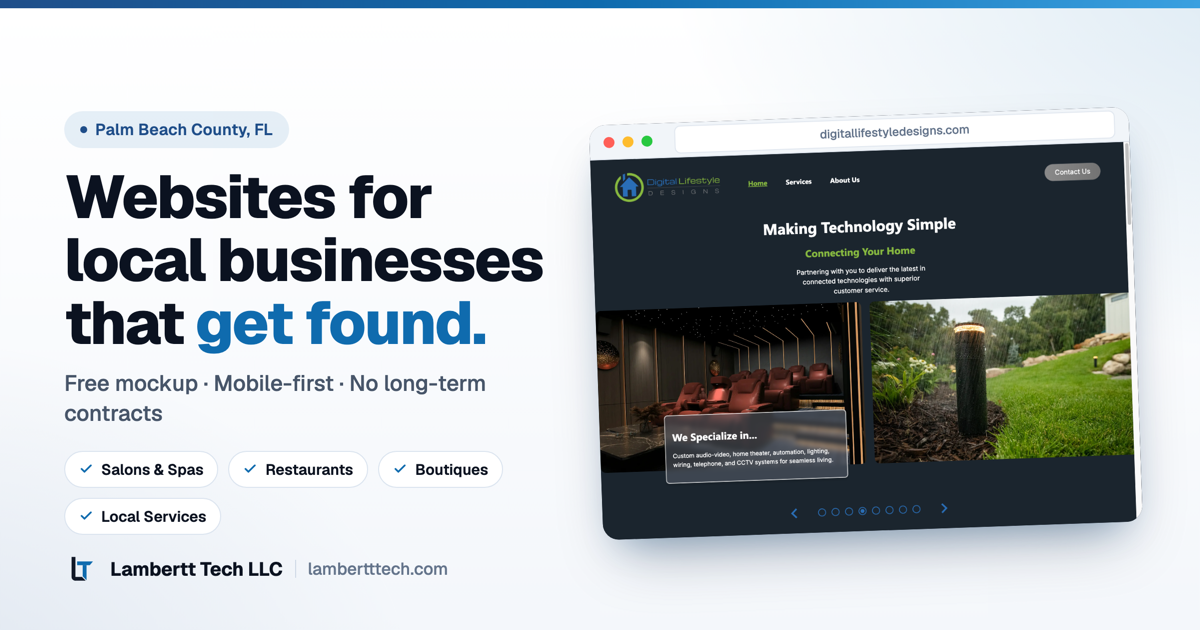
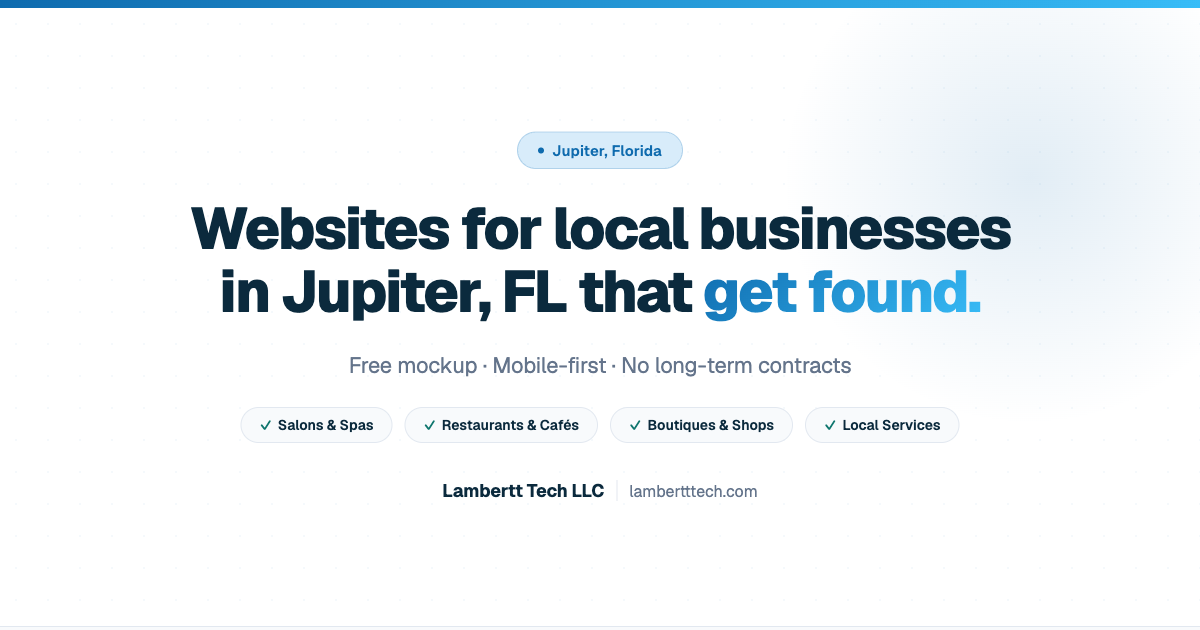
refactor: adopt brand identity palette and tokenize all colors
Aligns site colors with the canonical Brand Identity System palette
(charcoal, navy, Lambertt Blue #0F6BAE, blue-bright, blue-soft) and
replaces all hex/rgba literals in inline styles with CSS variables.
Removes the gradient on the hero "get found." span in favor of solid
brand blue. Regenerates the OG image with the corrected palette.

diff --git a/src/styles/global.css b/src/styles/global.css
@@ -5,17 +5,56 @@
 }
 
 :root {
-  --color-background: #FFFFFF;
-  --color-surface: #FFFFFF;
-  --color-surface-2: #F8FAFC;
-  --color-text-primary: #111827;
-  --color-text-secondary: #64748B;
-  --color-brand-dark: #0B2A3D;
-  --color-brand-blue: #1F4E89;
-  --color-brand-blue-2: #2A6FBF;
-  --color-brand-soft: #DCE7F4;
-  --color-border: #E2E8F0;
-  --color-accent-teal: #0F766E;
+  /* ─────────── Canonical brand palette ───────────
+     Source of truth: Brand Identity System (Section 07).
+     Add new colors here, not inline. */
+
+  /* Primary */
+  --color-charcoal: #111827;
+  --color-navy: #0B2A3D;
+  --color-blue: #0F6BAE;
+  --color-blue-bright: #38BDF8;
+
+  /* Supporting */
+  --color-blue-soft: #D8ECFA;
+  --color-teal: #0F766E;
+
+  /* Neutrals */
+  --color-white: #FFFFFF;
+  --color-warm-white: #F8FAFC;
+  --color-cool-gray-100: #F1F5F9;
+  --color-cool-gray: #E2E8F0;
+  --color-slate-300: #CBD5E1;
+  --color-sky-300: #7DD3FC;
+  --color-slate-400: #94A3B8;
+  --color-slate: #64748B;
+
+  /* Status / non-brand accents */
+  --color-success-green: #4ADE80;
+  --color-mac-red: #FC5F57;
+  --color-mac-amber: #FEBC2E;
+  --color-mac-green: #27C840;
+
+  /* RGB tuples — use with rgba(var(--color-X-rgb), alpha) */
+  --color-white-rgb: 255, 255, 255;
+  --color-black-rgb: 0, 0, 0;
+  --color-navy-rgb: 11, 42, 61;
+  --color-blue-rgb: 15, 107, 174;
+  --color-blue-bright-rgb: 56, 189, 248;
+  --color-blue-soft-rgb: 216, 236, 250;
+
+  /* ─────────── Semantic aliases ─────────── */
+  --color-background: var(--color-white);
+  --color-surface: var(--color-white);
+  --color-surface-2: var(--color-warm-white);
+  --color-text-primary: var(--color-charcoal);
+  --color-text-secondary: var(--color-slate);
+  --color-brand-dark: var(--color-navy);
+  --color-brand-blue: var(--color-blue);
+  --color-brand-blue-2: var(--color-blue-bright);
+  --color-brand-soft: var(--color-blue-soft);
+  --color-border: var(--color-cool-gray);
+  --color-accent-teal: var(--color-teal);
 }
 
 *, *::before, *::after { box-sizing: border-box; }
@@ -77,7 +116,7 @@ img { max-width: 100%; display: block; }
   width: 6px;
   height: 6px;
   border-radius: 9999px;
-  background: rgba(255,255,255,0.55);
+  background: rgba(var(--color-white-rgb), 0.55);
   border: 0;
   padding: 0;
   margin: 0;
@@ -85,9 +124,9 @@ img { max-width: 100%; display: block; }
   transition: all 350ms cubic-bezier(0.4, 0, 0.2, 1);
   display: inline-block;
 }
-.carousel-dot:hover { background: rgba(255,255,255,0.8); }
-.carousel-dot.is-active { width: 20px; background: #ffffff; }
-.carousel-dot:focus-visible { outline: 2px solid #fff; outline-offset: 2px; }
+.carousel-dot:hover { background: rgba(var(--color-white-rgb), 0.8); }
+.carousel-dot.is-active { width: 20px; background: var(--color-white); }
+.carousel-dot:focus-visible { outline: 2px solid var(--color-white); outline-offset: 2px; }
 @media (prefers-reduced-motion: reduce) {
   .carousel-slide, .carousel-slide-image, .carousel-dot { transition: none !important; }
   .carousel-slide-image { transform: none !important; }